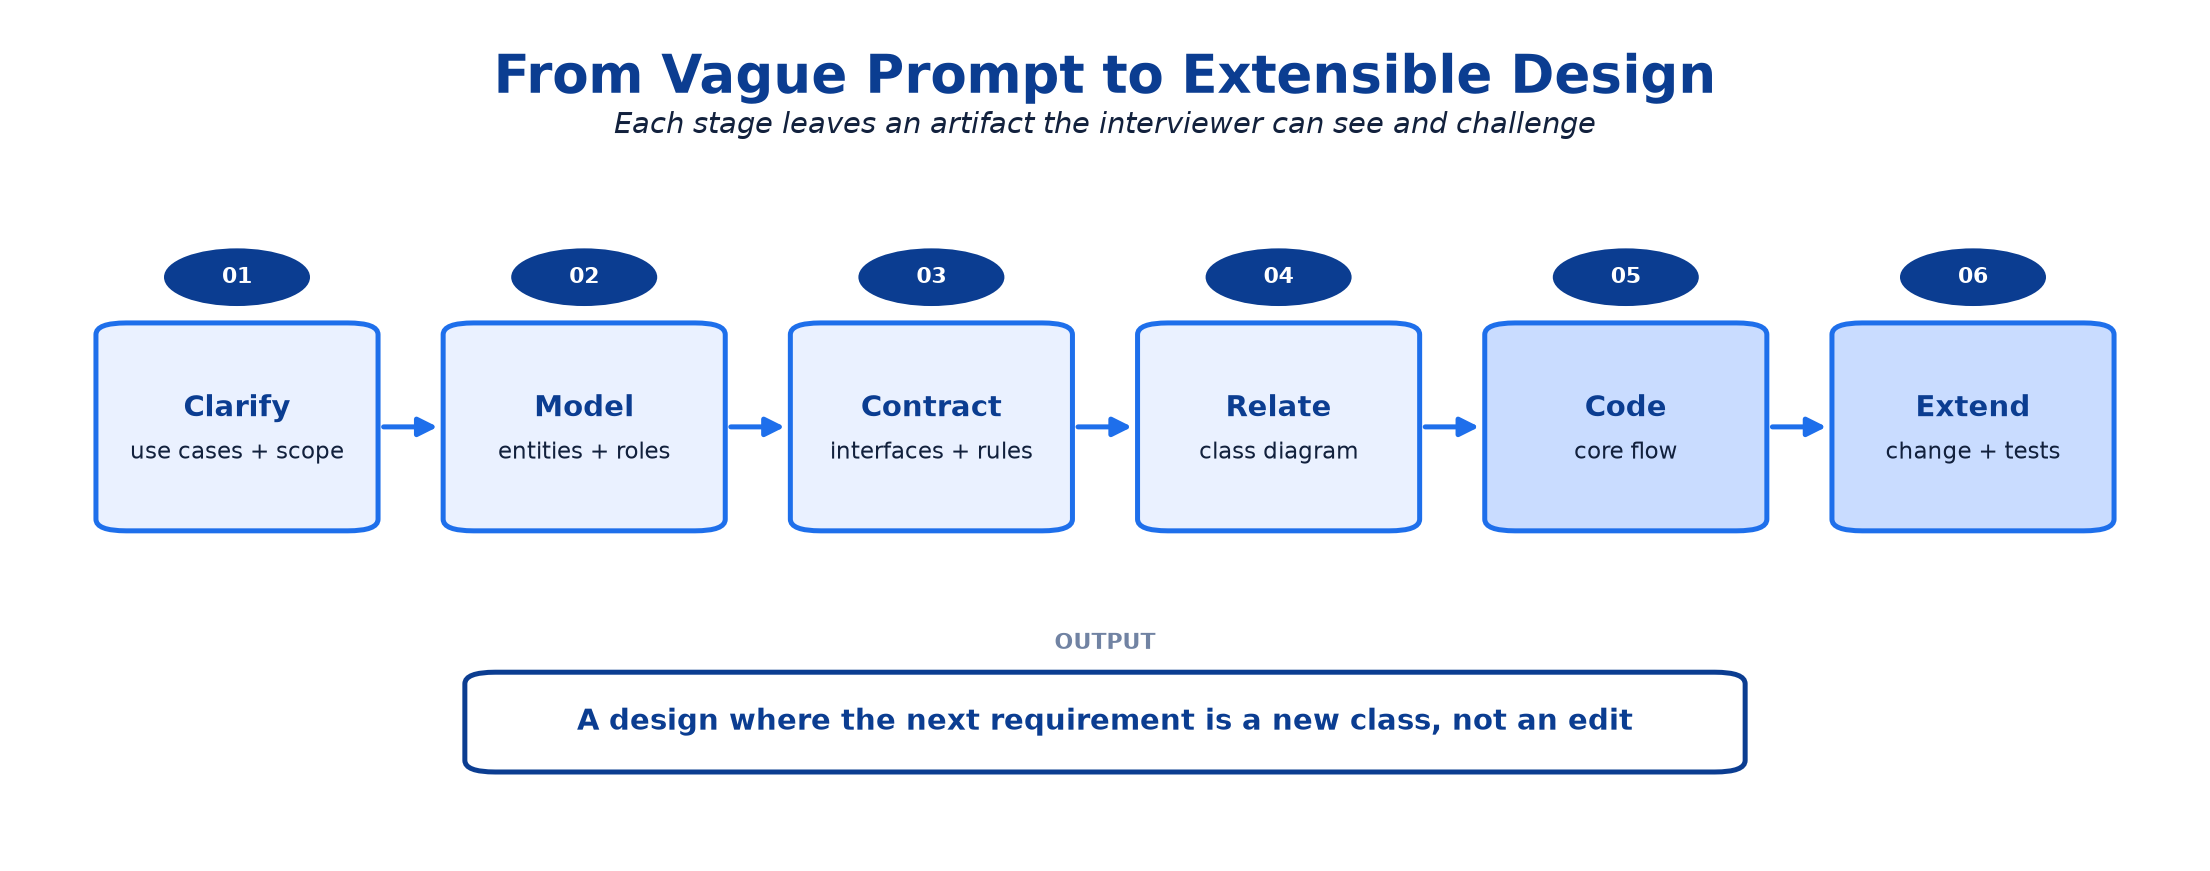
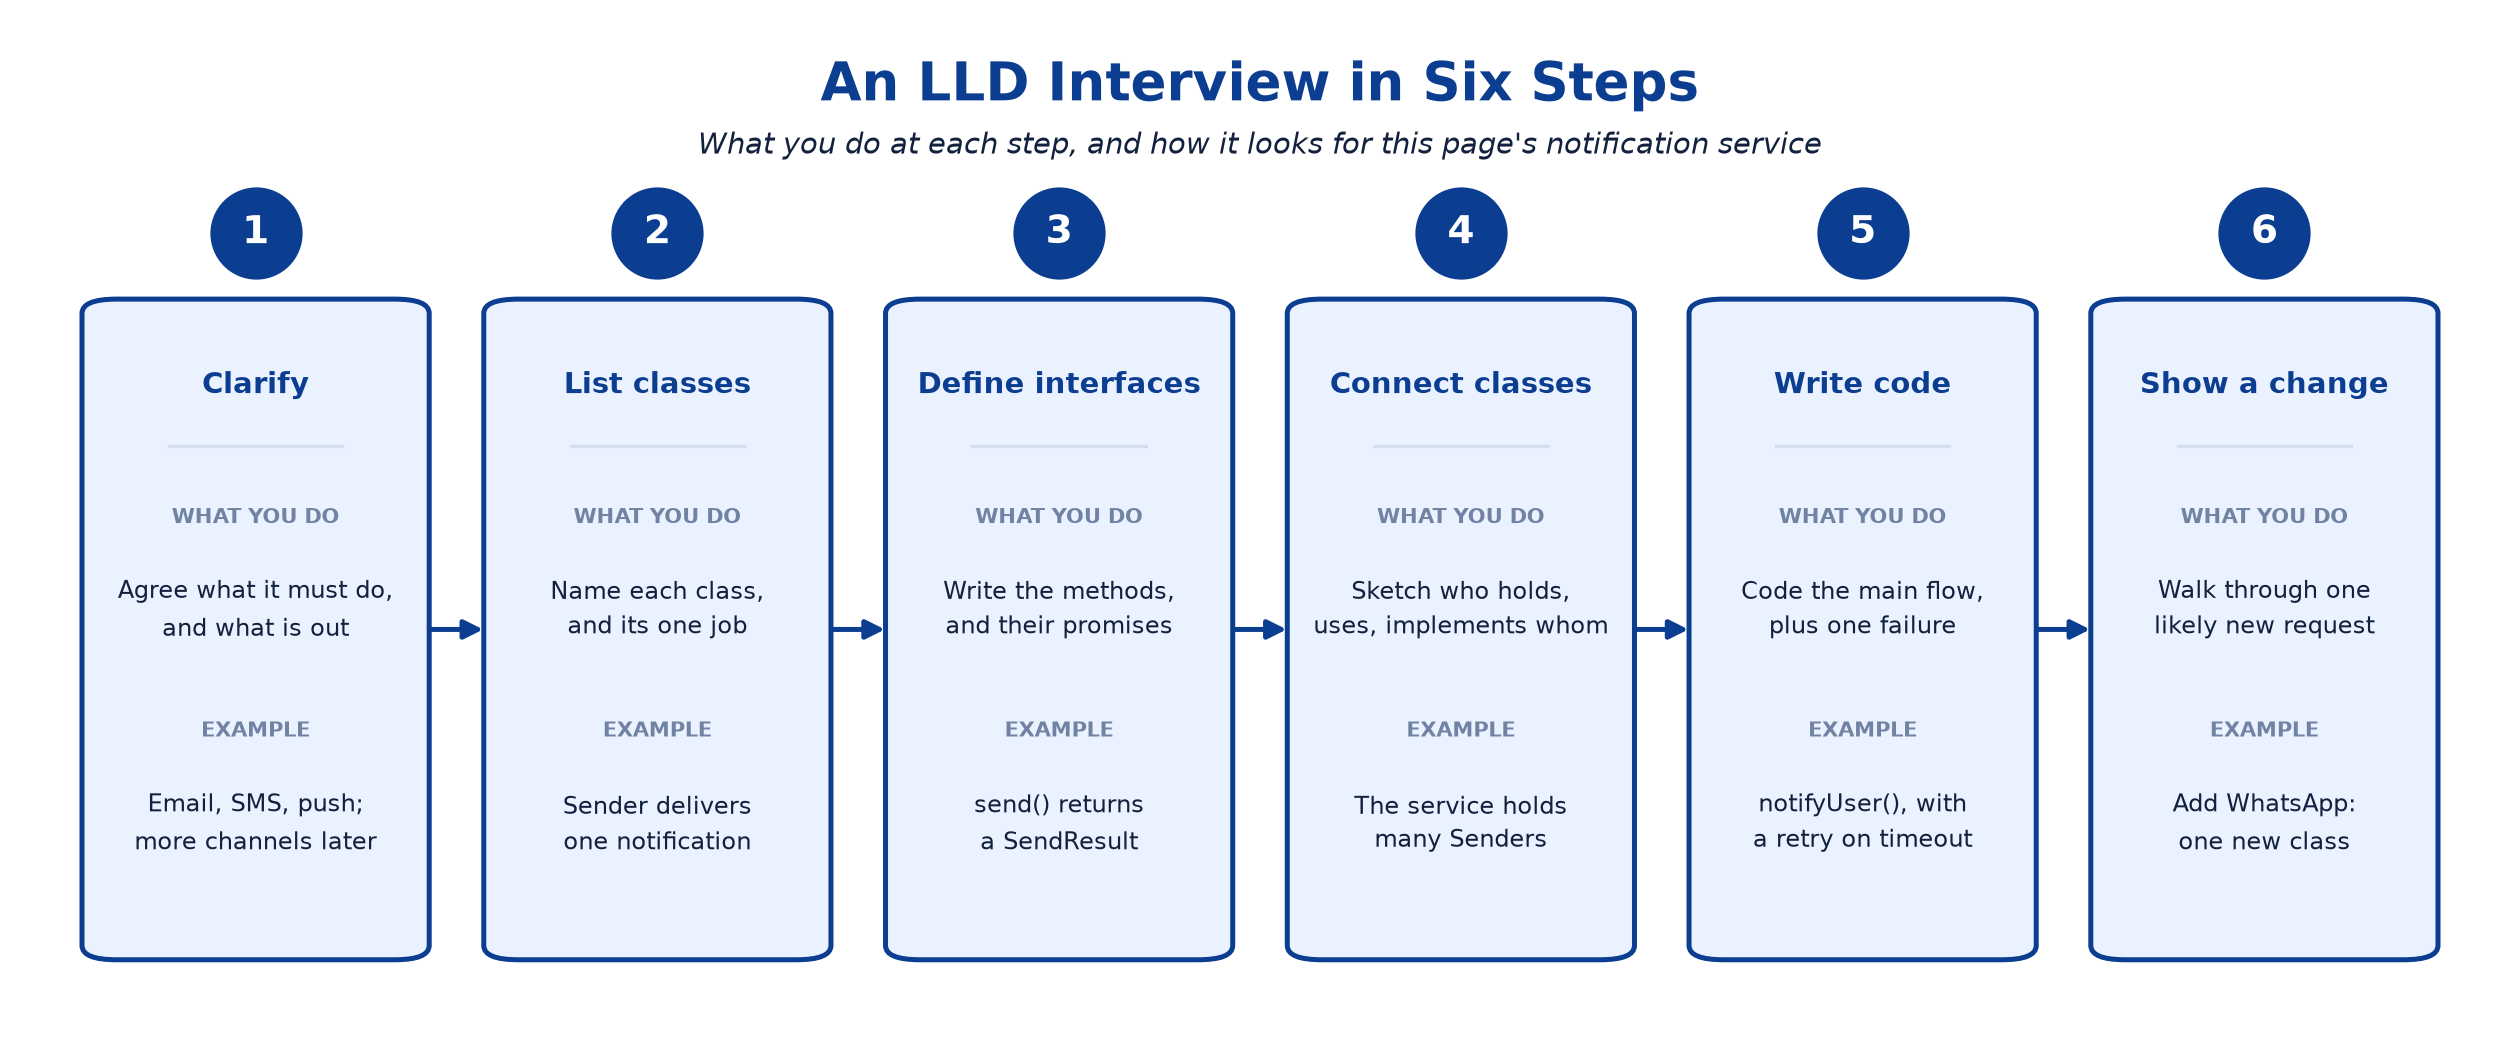
Basics 2: clearer LLD interview diagram and steps table
- Diagram: replaced terse jargon stages (Model, Contract, Relate,
  'entities + roles', 'artifact'), stretched oval badges, an unexplained
  highlight, and an output box that overstated 'the next requirement is a
  new class, not an edit'. Now six cards with plain step names, what you
  do, and a notification-service example, linked by arrows.
- card_row: optional gap and arrows parameters so ordered steps reuse the
  same layout code; existing 4- and 5-card figures render byte-identical.
- Dropped the now-unused stage_row import from the Topic 2 script.
- Table: renamed steps to match the diagram, numbered them, and added an
  'Example from this page' column tying each step to the running example.

diff --git a/system-design/_support/tools/plot_topic_02_figures.py b/system-design/_support/tools/plot_topic_02_figures.py
@@ -36,7 +36,6 @@ from figure_style import (
     canvas,
     card_row,
     heading,
-    stage_row,
 )
 
 ASSETS = Path(__file__).resolve().parent.parent.parent / "basics" / "assets" / "topic-02"
@@ -63,22 +62,22 @@ def policy_boundary(ax: plt.Axes, x0: float, x1: float, y: float) -> None:
             fontsize=7.5, fontweight="bold", color=NAVY)
 
 
+INTERVIEW_STEPS = [
+    ("1", "Clarify", "Agree what it must do,\nand what is out", "Email, SMS, push;\nmore channels later"),
+    ("2", "List classes", "Name each class,\nand its one job", "Sender delivers\none notification"),
+    ("3", "Define interfaces", "Write the methods,\nand their promises", "send() returns\na SendResult"),
+    ("4", "Connect classes", "Sketch who holds,\nuses, implements whom", "The service holds\nmany Senders"),
+    ("5", "Write code", "Code the main flow,\nplus one failure", "notifyUser(), with\na retry on timeout"),
+    ("6", "Show a change", "Walk through one\nlikely new request", "Add WhatsApp:\none new class"),
+]
+
+
 def lld_interview_framework() -> plt.Figure:
-    fig, ax = canvas(14, 5.4)
-    heading(ax, "From Vague Prompt to Extensible Design",
-            "Each stage leaves an artifact the interviewer can see and challenge")
-    steps = [
-        ("01", "Clarify", "use cases + scope"),
-        ("02", "Model", "entities + roles"),
-        ("03", "Contract", "interfaces + rules"),
-        ("04", "Relate", "class diagram"),
-        ("05", "Code", "core flow"),
-        ("06", "Extend", "change + tests"),
-    ]
-    stage_row(ax, steps, [4, 20, 36, 52, 68, 84], y=39, width=12, height=24, highlight=(4, 5))
-    ax.text(50, 25, "OUTPUT", ha="center", va="center", fontsize=8, fontweight="bold", color=GREY)
-    box(ax, 21, 10, 58, 11, "A design where the next requirement is a new class, not an edit",
-        face=WHITE, edge=NAVY)
+    fig, ax = canvas(16, 6.6)
+    heading(ax, "An LLD Interview in Six Steps",
+            "What you do at each step, and how it looks for this page's notification service")
+    cards = [(*step, NAVY, PALE) for step in INTERVIEW_STEPS]
+    card_row(ax, cards, ("WHAT YOU DO", "EXAMPLE"), gap=3.2, arrows=True)
     return fig
 
 

diff --git a/system-design/_support/tools/figure_style.py b/system-design/_support/tools/figure_style.py
@@ -161,19 +161,25 @@ def card_row(
     ax: plt.Axes,
     cards: list[tuple[str, str, str, str, str, str]],
     labels: tuple[str, str],
+    *,
+    gap: float = 2.2,
+    arrows: bool = False,
 ) -> None:
     """Draw a row of tall cards: (badge, name, first text, second text, colour, face).
 
     Each card shows a coloured badge, a navy name, and two labelled sections,
     e.g. ASK/SMELL or USE WHEN/COST. Width adapts to the number of cards, so
-    this works for a row of four or five on a 15 x 6.6 canvas.
+    this works for a row of four, five, or six. Set arrows=True (with a wider
+    gap) when the cards are steps in order.
     """
-    margin, gap = 3, 2.2
+    margin = 3
     width = (100 - 2 * margin - (len(cards) - 1) * gap) / len(cards)
     step = width + gap
     for index, (badge_text, name, first, second, color, face) in enumerate(cards):
         x = margin + index * step
         centre_x = x + width / 2
+        if arrows and index < len(cards) - 1:
+            arrow(ax, (x + width + 0.3, 40), (x + step - 0.3, 40), color=color)
         box(ax, x, 8, width, 64, "", face=face, edge=color)
         badge(ax, centre_x, 79, badge_text, color=color, size=14)
         ax.text(centre_x, 64, name, ha="center", va="center", fontsize=10.5,

diff --git a/system-design/basics/02_LLD_Object_Oriented_Principles_And_Clean_Code.md b/system-design/basics/02_LLD_Object_Oriented_Principles_And_Clean_Code.md
@@ -572,18 +572,18 @@ These three problems increase in difficulty. Try each one on paper before openin
 
 ## 9. How this shows up in an LLD interview
 
-![Six-stage low-level design interview framework](assets/topic-02/lld_interview_framework.png)
+![The six steps of an LLD interview, each with what you do and an example from the notification service](assets/topic-02/lld_interview_framework.png)
 
-A low-level design (LLD) interview asks you to design the classes for a small system, and often to write the core code. It follows the same funnel as the system design interview in Basics 1, one level closer to the code.
+A low-level design (LLD) interview asks you to design the classes for a small system, and often to write the core code. It follows the same funnel as the system design interview in Basics 1, one level closer to the code. Here are the six steps, using this page's notification service as the example:
 
-| Stage | What you are trying to achieve |
-|---|---|
-| Clarify | Agree on the main use cases, say what is out of scope, and name one or two changes that are likely to come. |
-| Model | List the main classes, and give each one a single-sentence responsibility. |
-| Contract | Define the key interfaces and the rules each object guarantees. |
-| Relate | Draw a class diagram that shows which classes have, implement, or depend on which others. |
-| Code | Write the main flow in real code, including at least one failure case. |
-| Extend | Walk through a likely change, and show which classes it touches. Ideally that is one new class, and when it is not, say so. |
+| Step | What you do | Example from this page |
+|---|---|---|
+| 1. Clarify | Agree on what the system must do, what is out of scope, and which changes are likely. | Notify users by email, SMS, or push. More channels are likely. Delivery analytics is out of scope. |
+| 2. List classes | Name the main classes, each with a one-sentence job. | `PreferencePolicy` decides which channels a user allows. `Sender` delivers one notification. |
+| 3. Define interfaces | Write the key methods, and the promises each object keeps. | `send(notification)` returns a `SendResult`, and a timeout always comes back as `RETRYABLE_FAILURE`. |
+| 4. Connect classes | Sketch which classes hold, use, or implement which others. | The class diagram in section 6. |
+| 5. Write code | Code the main flow, including at least one failure. | `notifyUser(...)`, retrying a send that timed out. |
+| 6. Show a change | Walk through a likely change, and say which classes it touches. Ideally that is one new class, and when it is not, say so. | Adding WhatsApp is one new `WhatsAppSender`. A daily summary edits `NotificationService`. |
 
 ### Checklist
 
